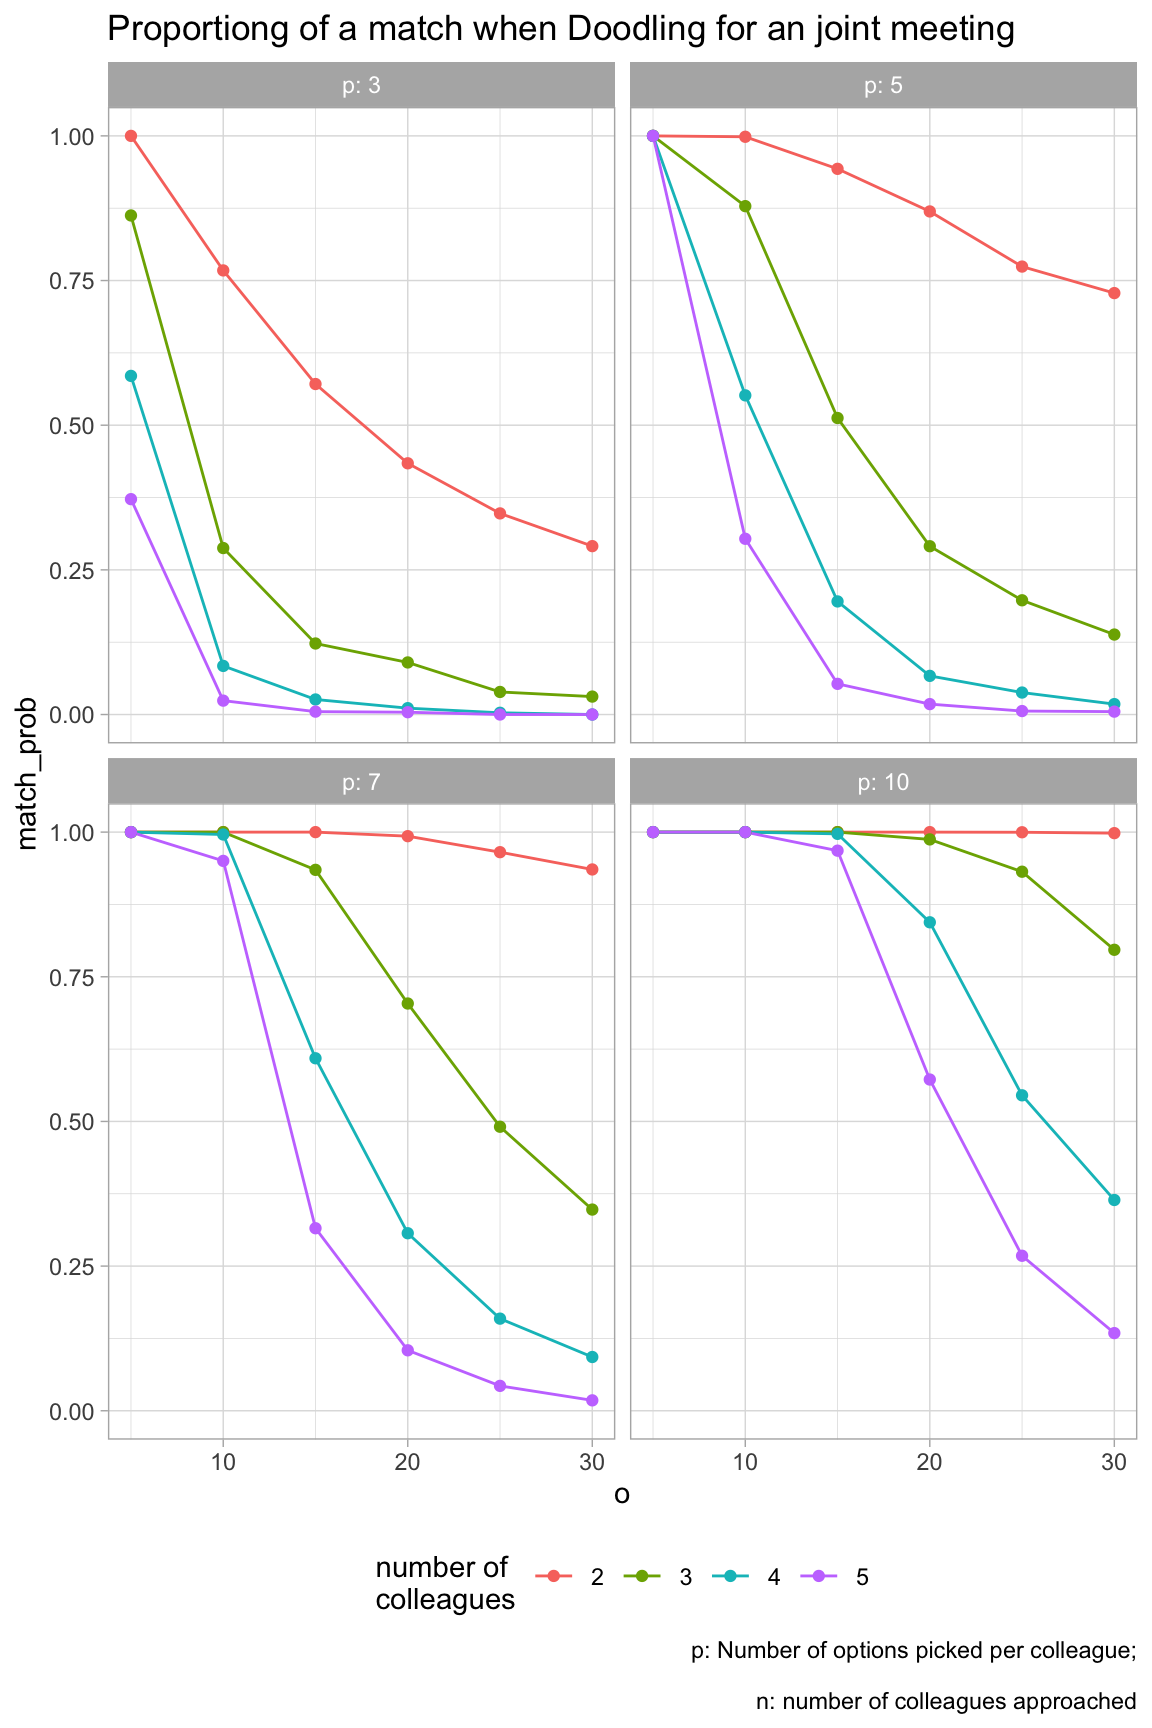
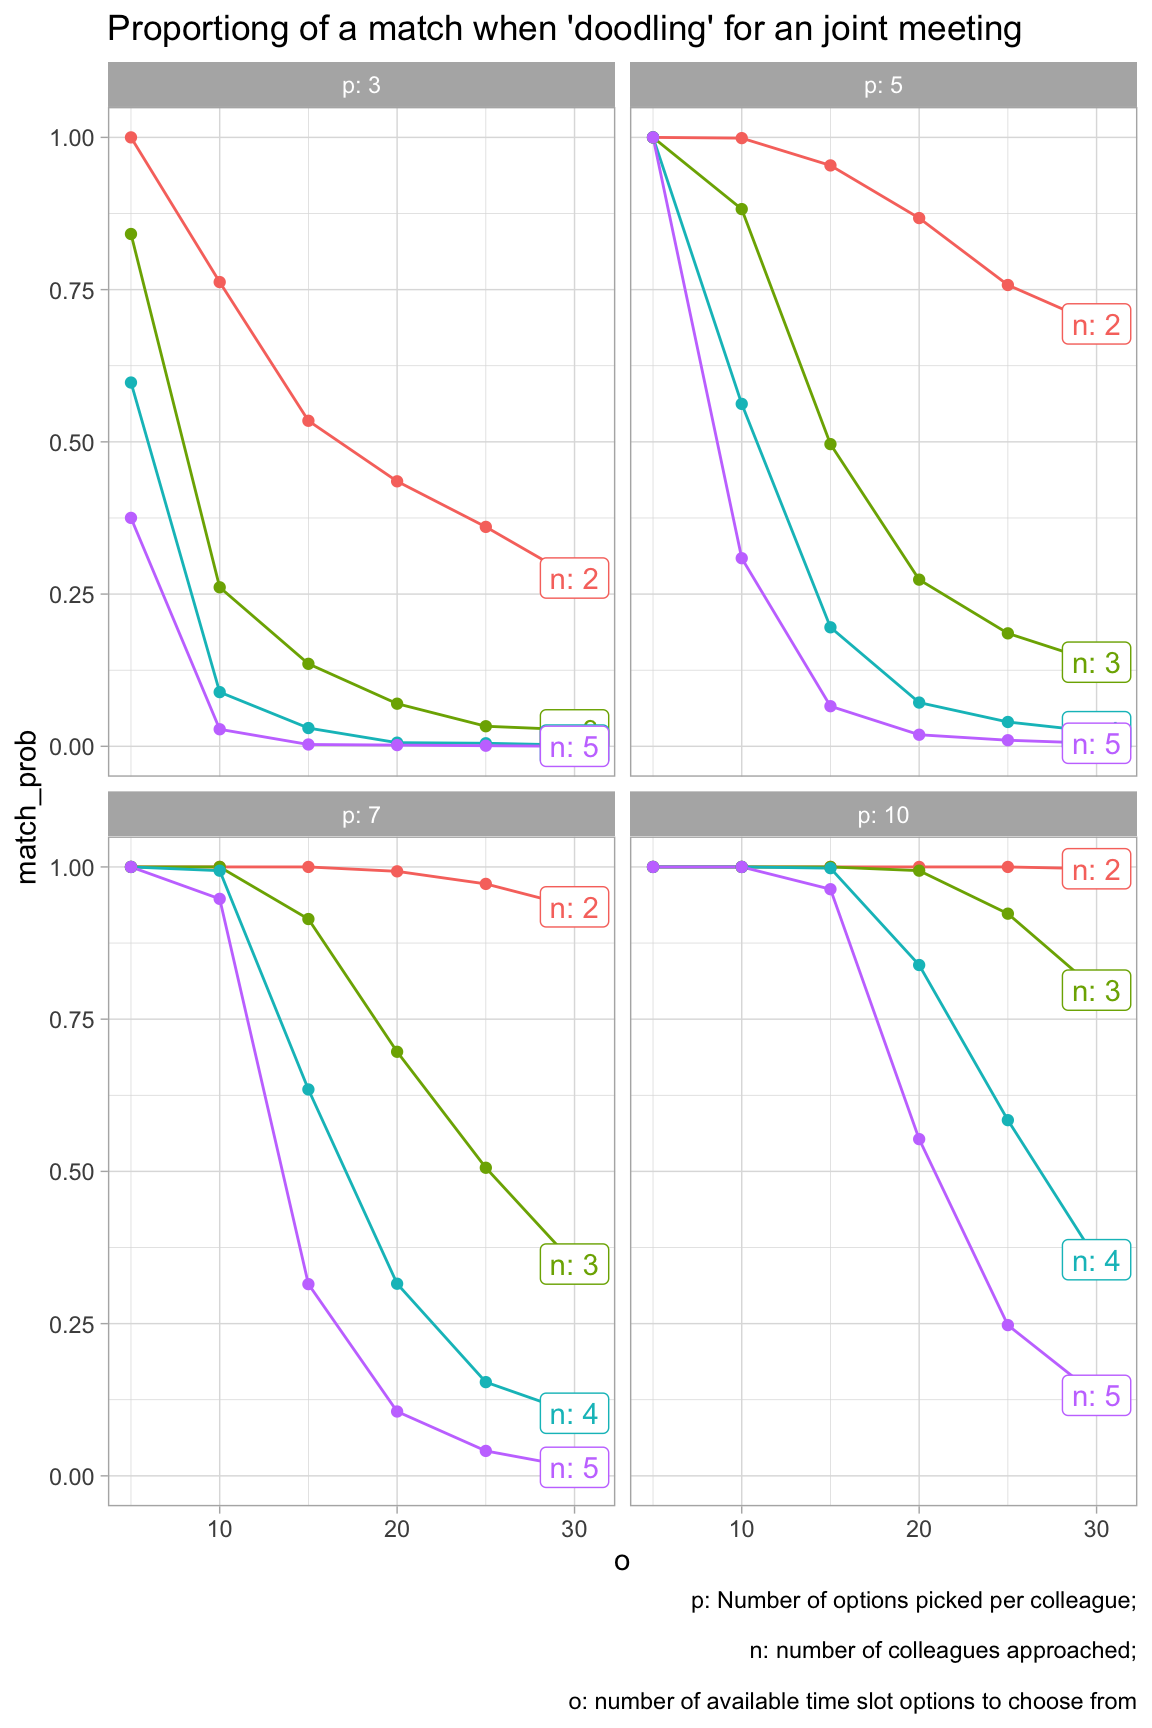
beautify diagram

diff --git a/content/post/2024-01-29-simulating-the-paradox-of-multiple-collision/index.html b/content/post/2024-01-29-simulating-the-paradox-of-multiple-collision/index.html
@@ -33,10 +33,11 @@ output:
 <li><a href="#o5-make-a-matching-highly-probable" id="toc-o5-make-a-matching-highly-probable"><span class="toc-section-number">7</span> o=5; Make a matching highly probable</a></li>
 <li><a href="#grid-of-different-parameter-values" id="toc-grid-of-different-parameter-values"><span class="toc-section-number">8</span> Grid of different parameter values</a></li>
 <li><a href="#populate-grid" id="toc-populate-grid"><span class="toc-section-number">9</span> Populate grid</a></li>
-<li><a href="#visualize-grid" id="toc-visualize-grid"><span class="toc-section-number">10</span> Visualize grid</a></li>
-<li><a href="#caveats" id="toc-caveats"><span class="toc-section-number">11</span> Caveats</a></li>
-<li><a href="#conclusion" id="toc-conclusion"><span class="toc-section-number">12</span> Conclusion</a></li>
-<li><a href="#reproducibility" id="toc-reproducibility"><span class="toc-section-number">13</span> Reproducibility</a></li>
+<li><a href="#visualize-grid-1" id="toc-visualize-grid-1"><span class="toc-section-number">10</span> Visualize grid 1</a></li>
+<li><a href="#visualize-grid-2" id="toc-visualize-grid-2"><span class="toc-section-number">11</span> Visualize grid 2</a></li>
+<li><a href="#caveats" id="toc-caveats"><span class="toc-section-number">12</span> Caveats</a></li>
+<li><a href="#conclusion" id="toc-conclusion"><span class="toc-section-number">13</span> Conclusion</a></li>
+<li><a href="#reproducibility" id="toc-reproducibility"><span class="toc-section-number">14</span> Reproducibility</a></li>
 </ul>
 </div>
 
@@ -352,16 +353,27 @@ plot_matches(smples_tbl3,  n_colleagues, p = p, o = o)</code></pre>
 </div>
 <div id="populate-grid" class="section level1" number="9">
 <h1><span class="header-section-number">9</span> Populate grid</h1>
-<pre class="r"><code>d_grid &lt;-
+<pre class="r"><code>tic()
+d_grid &lt;-
   d |&gt; 
   mutate(match_prob = 
            pmap_dbl(
              .l = list(n_colleagues, o, p), 
              .f = matching_prob,
-             .progress = TRUE))</code></pre>
+             .progress = TRUE))
+toc()
+#&gt; 95.567 sec elapsed</code></pre>
+<p>Quite slow.</p>
+<pre class="r"><code>glimpse(d_grid)
+#&gt; Rows: 96
+#&gt; Columns: 4
+#&gt; $ n_colleagues &lt;int&gt; 2, 2, 2, 2, 2, 2, 2, 2, 2, 2, 2, 2, 2, 2, 2, 2, 2, 2, 2, …
+#&gt; $ o            &lt;dbl&gt; 5, 5, 5, 5, 10, 10, 10, 10, 15, 15, 15, 15, 20, 20, 20, 2…
+#&gt; $ p            &lt;dbl&gt; 3, 5, 7, 10, 3, 5, 7, 10, 3, 5, 7, 10, 3, 5, 7, 10, 3, 5,…
+#&gt; $ match_prob   &lt;dbl&gt; 1.0000000, 1.0000000, 1.0000000, 1.0000000, 0.7623846, 0.…</code></pre>
 </div>
-<div id="visualize-grid" class="section level1" number="10">
-<h1><span class="header-section-number">10</span> Visualize grid</h1>
+<div id="visualize-grid-1" class="section level1" number="10">
+<h1><span class="header-section-number">10</span> Visualize grid 1</h1>
 <pre class="r"><code>d_grid |&gt; 
   rename(n = n_colleagues) |&gt; 
   ggplot(aes(x = o, y = match_prob)) +
@@ -374,34 +386,58 @@ plot_matches(smples_tbl3,  n_colleagues, p = p, o = o)</code></pre>
        n: number of colleagues approached&quot;
        )</code></pre>
 <p><img src="{{< blogdown/postref >}}index_files/figure-html/vis-grid-1.png" width="100%" style="display: block; margin: auto;" /></p>
-<p>Let’s try a different visualization:</p>
-<pre class="r"><code>d_grid_long &lt;-
-  d_grid |&gt; 
-  pivot_longer(cols = c(n_colleagues, p))
+</div>
+<div id="visualize-grid-2" class="section level1" number="11">
+<h1><span class="header-section-number">11</span> Visualize grid 2</h1>
+<p>Let’s try a different visualization.</p>
+<p>Here’s a little love for the labels of the line:</p>
+<pre class="r"><code>d_grid_labels &lt;- 
+d_grid |&gt; 
+  mutate(n_colleagues = factor(n_colleagues)) |&gt; 
+  group_by(p, n_colleagues) |&gt; 
+  summarise(X = max(o), 
+            Y = last(match_prob))
+
+glimpse(d_grid)
+#&gt; Rows: 96
+#&gt; Columns: 4
+#&gt; $ n_colleagues &lt;int&gt; 2, 2, 2, 2, 2, 2, 2, 2, 2, 2, 2, 2, 2, 2, 2, 2, 2, 2, 2, …
+#&gt; $ o            &lt;dbl&gt; 5, 5, 5, 5, 10, 10, 10, 10, 15, 15, 15, 15, 20, 20, 20, 2…
+#&gt; $ p            &lt;dbl&gt; 3, 5, 7, 10, 3, 5, 7, 10, 3, 5, 7, 10, 3, 5, 7, 10, 3, 5,…
+#&gt; $ match_prob   &lt;dbl&gt; 1.0000000, 1.0000000, 1.0000000, 1.0000000, 0.7623846, 0.…</code></pre>
+<pre class="r"><code># d_grid_long &lt;-
+#   d_grid |&gt; 
+#   pivot_longer(cols = c(n_colleagues, p))
 
 d_grid |&gt; 
   rename(n = n_colleagues) |&gt; 
   mutate(n = factor(n)) |&gt; 
-  ggplot(aes(x = o, y = match_prob, color = n, group = n)) +
-  geom_line() +
-  geom_point() +
+  ggplot(aes(x = o, y = match_prob)) +
+  geom_line(aes(color = n, group = n)) +
+  geom_point(aes(color = n, group = n)) +
   facet_wrap(~  p , labeller = labeller(p = label_both), ncol = 2) +
-  labs(title = &quot;Proportiong of a match when Doodling for an joint meeting&quot;,
+  labs(title = &quot;Proportiong of a match when &#39;doodling&#39; for an joint meeting&quot;,
        caption = &quot;p: Number of options picked per colleague;\n
-       n: number of colleagues approached&quot;,
-       color = &quot;number of\ncolleagues&quot;) +
+       n: number of colleagues approached;\n
+       o: number of available time slot options to choose from&quot;,
+       color = &quot;number of\ncolleagues&quot;,
+       text = &quot;&quot;) +
   theme_light() +
-  theme(legend.position = &quot;bottom&quot;)</code></pre>
+  theme(legend.position = &quot;none&quot;) +
+  geom_label(data = d_grid_labels,
+             aes(label = paste0(&quot;n: &quot;, n_colleagues), 
+                 x = X, y = Y, color = factor(n_colleagues))) +
+  expand_limits(x = max(d_grid$o) + 1)</code></pre>
 <p><img src="{{< blogdown/postref >}}index_files/figure-html/vis-grid2-1.png" width="100%" style="display: block; margin: auto;" /></p>
 </div>
-<div id="caveats" class="section level1" number="11">
-<h1><span class="header-section-number">11</span> Caveats</h1>
+<div id="caveats" class="section level1" number="12">
+<h1><span class="header-section-number">12</span> Caveats</h1>
 <p>This analysis builds on some assumptions. One is that the the colleagues choose their slots randomly.
 However, assumption may fail.
 For example, if 3 have 5 options and ask to choose 3, people may feel pushed too hard and do crazy things.</p>
 </div>
-<div id="conclusion" class="section level1" number="12">
-<h1><span class="header-section-number">12</span> Conclusion</h1>
+<div id="conclusion" class="section level1" number="13">
+<h1><span class="header-section-number">13</span> Conclusion</h1>
 <p>There are a number of things to be learnt from this simulation:</p>
 <ol style="list-style-type: decimal">
 <li>The higher the number of _o_ptions to pick from, the less likely is it to come to a match.</li>
@@ -415,8 +451,8 @@ For example, if 3 have 5 options and ask to choose 3, people may feel pushed too
 <li>If you can present 5 options only, you will be on the safe side and will likely come to a match.</li>
 </ul>
 </div>
-<div id="reproducibility" class="section level1" number="13">
-<h1><span class="header-section-number">13</span> Reproducibility</h1>
+<div id="reproducibility" class="section level1" number="14">
+<h1><span class="header-section-number">14</span> Reproducibility</h1>
 <pre><code>#&gt; ─ Session info ───────────────────────────────────────────────────────────────────────────────────────────────────────
 #&gt;  setting  value
 #&gt;  version  R version 4.2.1 (2022-06-23)
